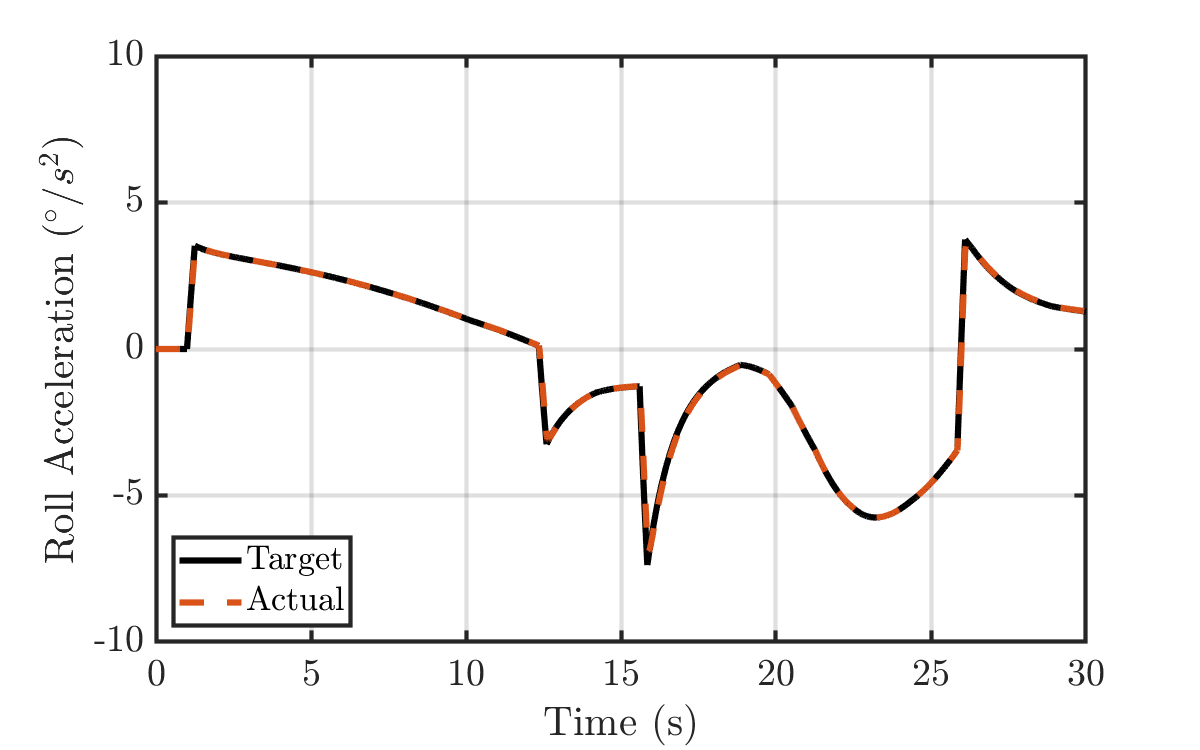
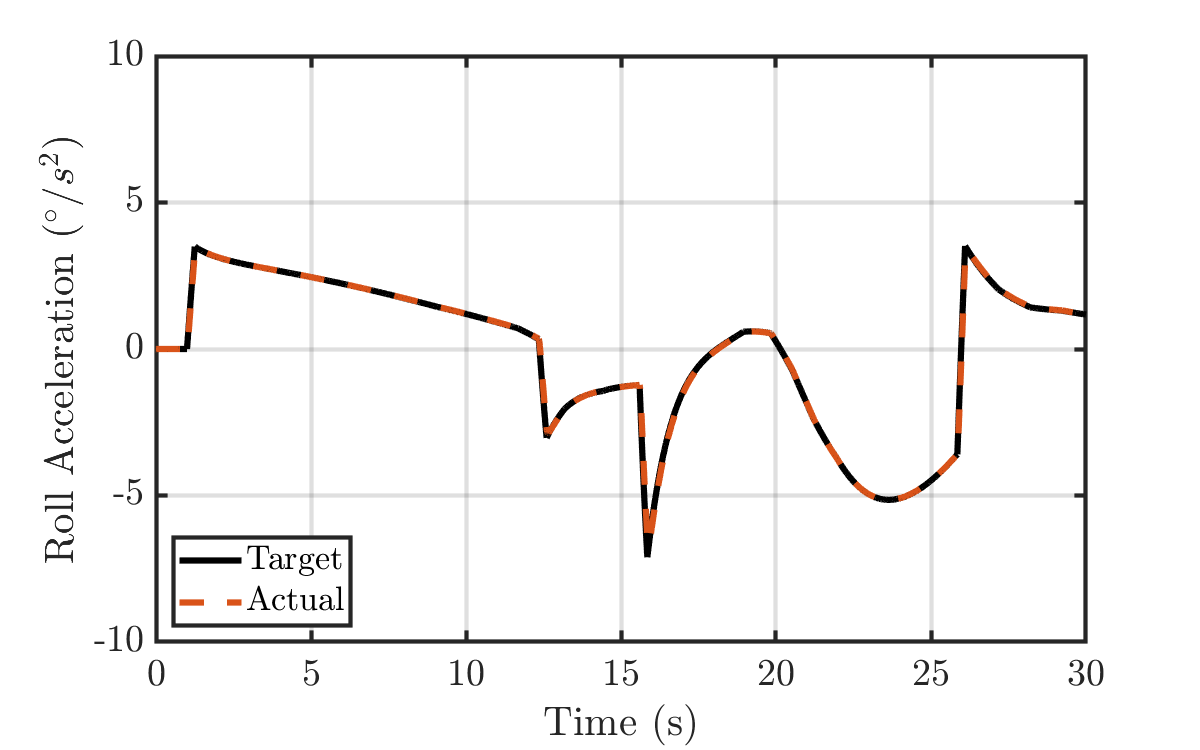
maneuver completion plots

diff --git a/code/image_gen/cba/plot_cfr147d.m b/code/image_gen/cba/plot_cfr147d.m
@@ -186,7 +186,6 @@ saveas(gcf,'images/eo_cfr147d_elev_defl.png')
 %% Plot mean response
 load('./Stanford_CFR25_147d/WT_trajectory_results')
 figure(14); clf; hold on;
-% set(gcf,'Position',[589,456,755,420]);
 i=1;
 plot(CPR_traj_mean(4).rightout.phi_rad.time,CPR_traj_mean(4).rightout.phi_rad.values*180/pi,'k');
 c = get(gca,'colororder');
@@ -198,10 +197,9 @@ grid on; box on;
 saveas(gcf,'images/reo_cfr147d_roll_angle_mean.png')
 
 figure(15); clf; hold on;
-% set(gcf,'Position',[589,456,755,420]);
-plot(CPR_traj_mean(4).rightout.pdot_dps2.time,CPR_traj_mean(4).rightout.pdot_dps2.values,'k');
+plot(CPR_traj_MC(4).rightout(i).pdot_dps2.time,CPR_traj_MC(4).rightout(i).pdot_dps2.values,'k');
 c = get(gca,'colororder');
-plot(CPA_traj_mean(4).rightout(i).pdot_dps2.time-2,CPA_traj_mean(4).rightout(i).pdot_dps2.values,'LineStyle','--','color',c(2,:));
+plot(CPA_traj_MC(4).rightout(i).pdot_dps2.time-2,CPA_traj_MC(4).rightout(i).pdot_dps2.values,'LineStyle','--','color',c(2,:));
 xlabel('Time (s)');
 ylabel('Roll Acceleration $(^\circ/s^2)$');
 xlim([0,30])
@@ -209,3 +207,25 @@ ylim([-10 10])
 legend('Target','Actual','location','southwest');
 grid on; box on;
 saveas(gcf,'images/reo_cfr147d_roll_acc_mean.png')
+
+figure(16); clf; hold on;
+subplot(2,1,1); hold on;
+plot(CPA_traj_mean(4).rightout.ail_left_deg.time-2,CPA_traj_mean(4).rightout.ail_left_deg.values,'k');
+c = get(gca,'colororder');
+plot(CPA_traj_MC(4).rightout(i).ail_left_deg.time-2,CPA_traj_MC(4).rightout(i).ail_left_deg.values,'LineStyle','--','color',c(2,:));
+xlabel('Time (s)');
+ylabel('L. Aileron $(^\circ)$');
+xlim([0,30])
+ylim([-15 15])
+grid on; box on;
+
+subplot(2,1,2); hold on;
+plot(CPA_traj_mean(4).rightout.ail_right_deg.time-2,CPA_traj_mean(4).rightout.ail_right_deg.values,'k');
+c = get(gca,'colororder');
+plot(CPA_traj_MC(4).rightout(i).ail_right_deg.time-2,CPA_traj_MC(4).rightout(i).ail_right_deg.values,'LineStyle','--','color',c(2,:));
+xlabel('Time (s)');
+ylabel('R Aileron $(^\circ)$');
+xlim([0,30])
+ylim([-15 15])
+grid on; box on;
+saveas(gcf,'images/reo_cfr147d_ail_defl_mean.png')
